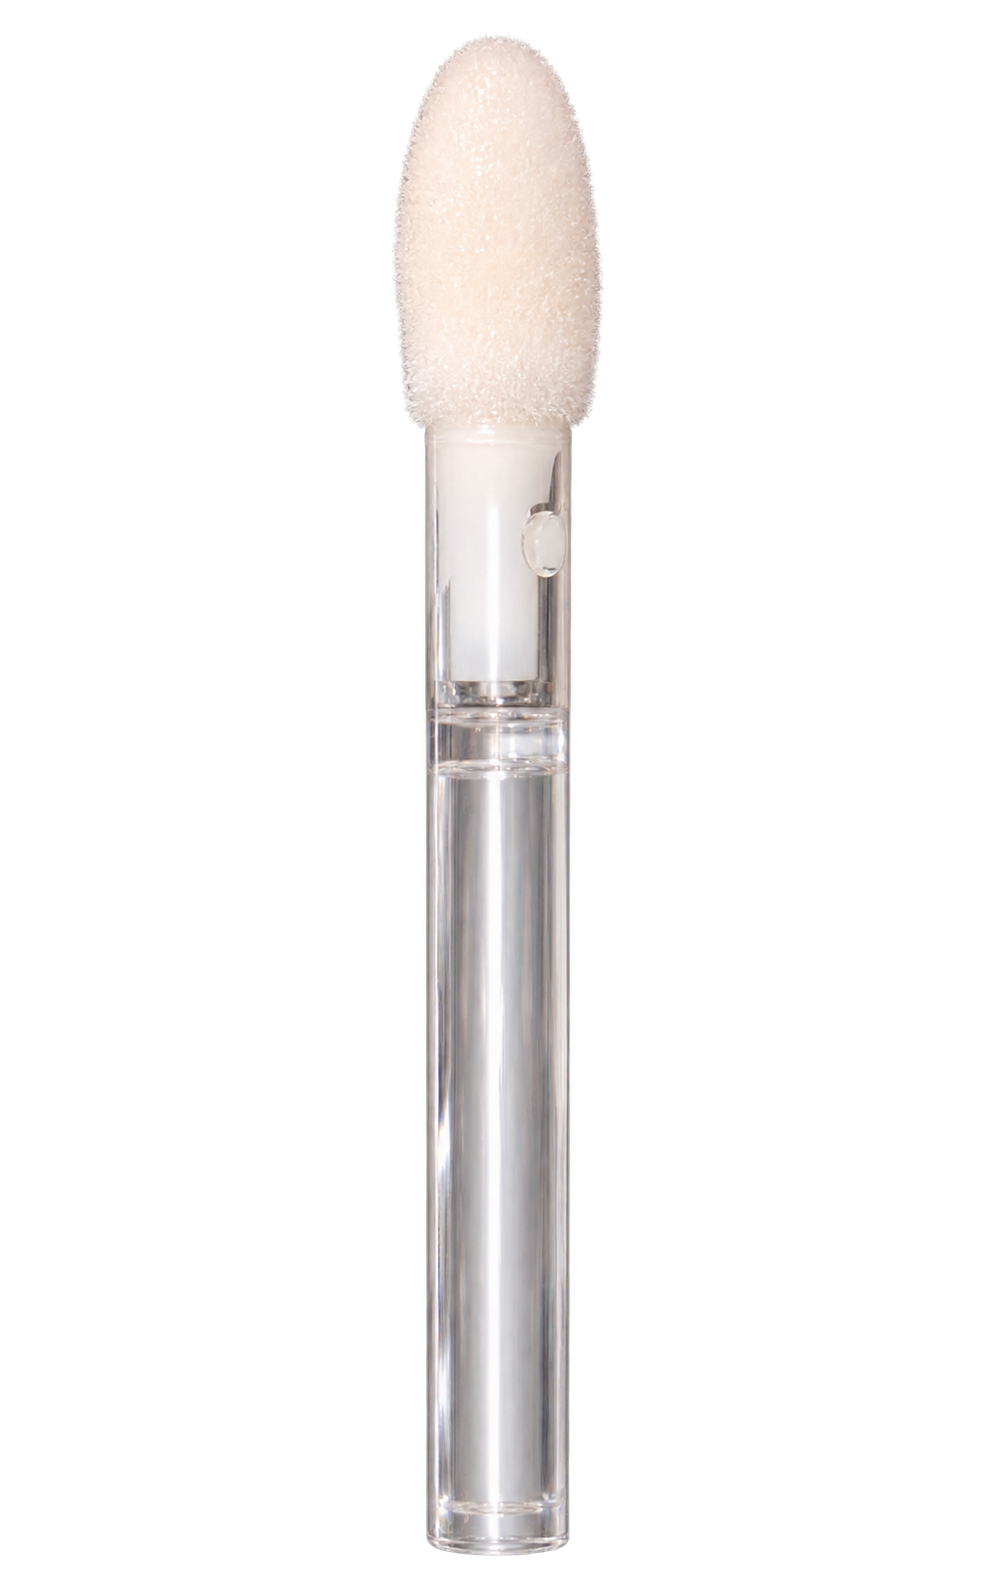
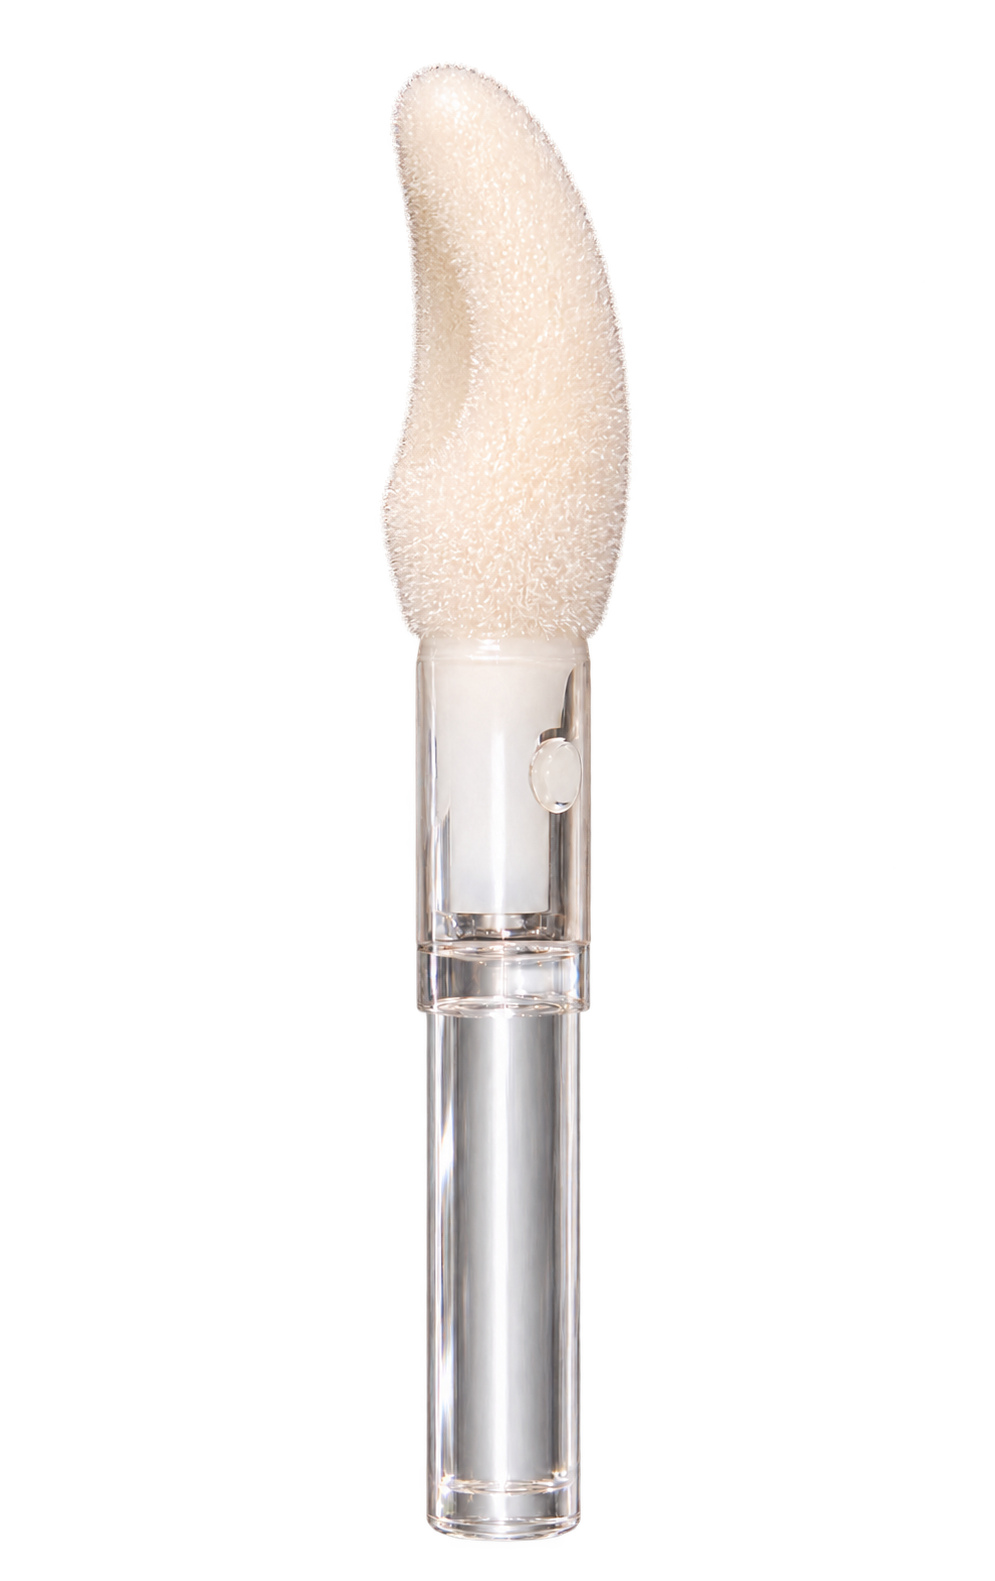
Move the gloss wand left and refine its curved tip with a shorter stem

Changed region(s): [[0.3739, 0.0, 0.6543, 0.9924]]

diff --git a/src/home-camera.ts b/src/home-camera.ts
@@ -65,9 +65,9 @@ export function createHomeCamera(host: HTMLElement, captureHome: () => HTMLCanva
     }
     ctx.restore()
     if (glossWand) {
-      const wandHeight = h * .4
+      const wandHeight = h * .34
       const wandWidth = wandHeight * glossWand.width / glossWand.height
-      ctx.drawImage(glossWand, w * .52 - wandWidth / 2, h - wandHeight * .88, wandWidth, wandHeight)
+      ctx.drawImage(glossWand, w * .25 - wandWidth / 2, h - wandHeight * .88, wandWidth, wandHeight)
     }
   }
   function resizeOverlay() {
